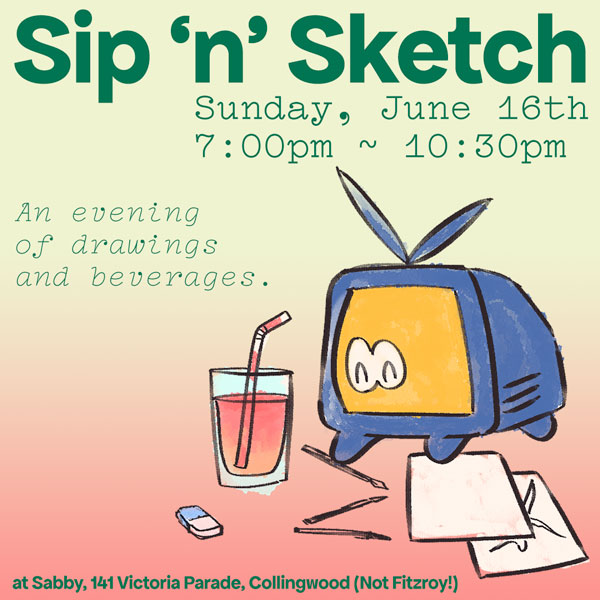
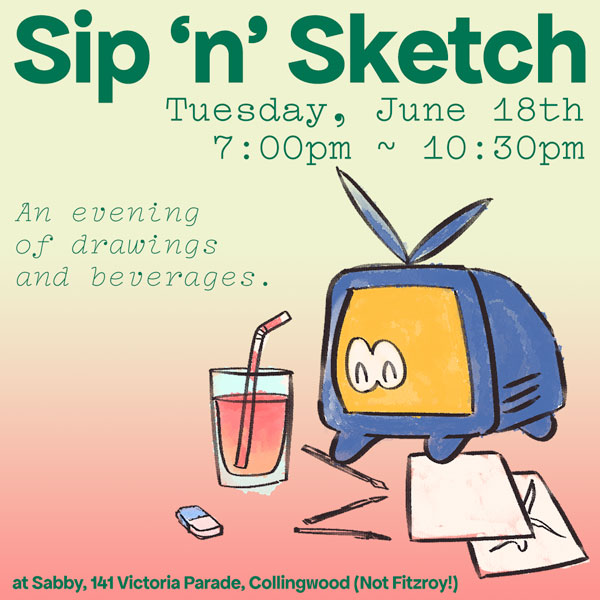
deploy: 2cdab509e7c86be706093cd5e1de576ad8a98a6e

Changed region(s): [[0.27, 0.15, 0.99, 0.3]]

diff --git a/calendar/index.html b/calendar/index.html
@@ -162,13 +162,13 @@
 						<td class="day-active">15<a class="calendar-link" href="/events/2024/06-zine-club/">Zine Club</a></td>
 							
 							
-						<td class="day-active">16<a class="calendar-link" href="/events/2024/06-sip-and-sketch/">Sip And Sketch</a></td>
+						<td class="day-active">16</td>
 							
 							</tr><tr> 
 						<td class="day-active">17</td>
 							
 							
-						<td class="day-active">18</td>
+						<td class="day-active">18<a class="calendar-link" href="/events/2024/06-sip-and-sketch/">Sip And Sketch</a></td>
 							
 							
 						<td class="day-active">19</td>

diff --git a/events/index.html b/events/index.html
@@ -81,6 +81,17 @@
 	<ul class="event-list">
 	
 		<li>
+		<a href="/events/2024/06-sip-and-sketch/"><img class="poster-thumb" src="/img/posters/2024-06-SipAndSketch.jpg"></a>
+		<p><a href="/events/2024/06-sip-and-sketch/">Sip And Sketch</a>
+
+		<br>An evening of drawings and beverages.</p>
+		
+		<i>
+			18 Jun
+			 <span class="divider">—</span> 7PM to 10.30PM</i>
+		</li>
+	
+		<li>
 		<a href="/events/2024/06-gamemaker-workshop/"><img class="poster-thumb" src="/img/posters/GMWorkshop_June2024.jpg"></a>
 		<p><a href="/events/2024/06-gamemaker-workshop/">GameMaker Workshop</a>
 

diff --git a/past-events/index.html b/past-events/index.html
@@ -88,10 +88,6 @@
 
 	<ul class="event-list">
 	
-		<li> <a href="/events/2024/06-sip-and-sketch/">
-		<img class="poster-thumb" src="/img/posters/2024-06-SipAndSketch.jpg"></img></a>
-		</li>
-	
 		<li> <a href="/events/2024/06-zine-club/">
 		<img class="poster-thumb" src="/img/posters/2024-06-ZineClub.jpg"></img></a>
 		</li>

diff --git a/events/2024/06-sip-and-sketch/index.html b/events/2024/06-sip-and-sketch/index.html
@@ -75,7 +75,7 @@
 	<div class="title">
 		<h1>Sip And Sketch</h1>
 		<date>
-			16 Jun 2024
+			18 Jun 2024
 			 <span class="divider">—</span> 7PM to 10.30PM</date>
 	</div>
 
